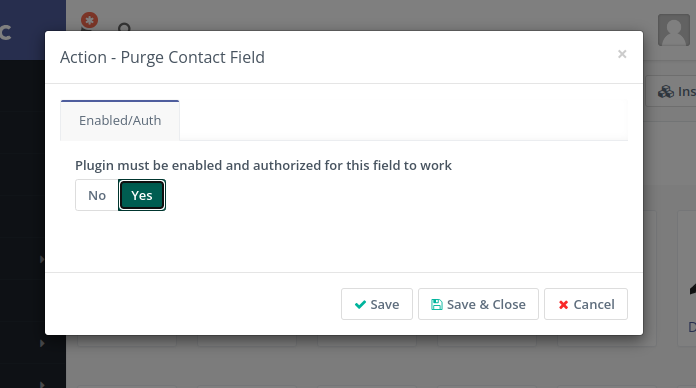
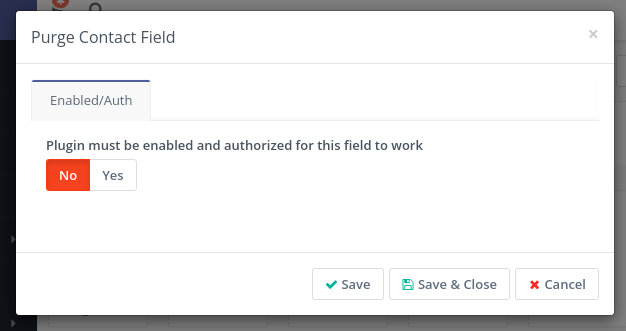
- generate README.md - change title field - add tooltip message description - edit composer to use mautic cs-fixer and php versions - add images

Changed region(s): [[0.0, 0.0, 1.0, 1.0], [0.0, 0.9668, 0.0304, 0.997]]

diff --git a/Integration/ActionPurgeContactFieldIntegration.php b/Integration/ActionPurgeContactFieldIntegration.php
@@ -11,7 +11,7 @@ class ActionPurgeContactFieldIntegration extends BasicIntegration implements Bas
     use ConfigurationTrait;
 
     public const INTEGRATION_NAME = 'actionpurgecontactfield';
-    public const DISPLAY_NAME     = 'Action - Purge Contact Field';
+    public const DISPLAY_NAME     = 'Purge Contact Field';
 
     public function getIcon(): string
     {
